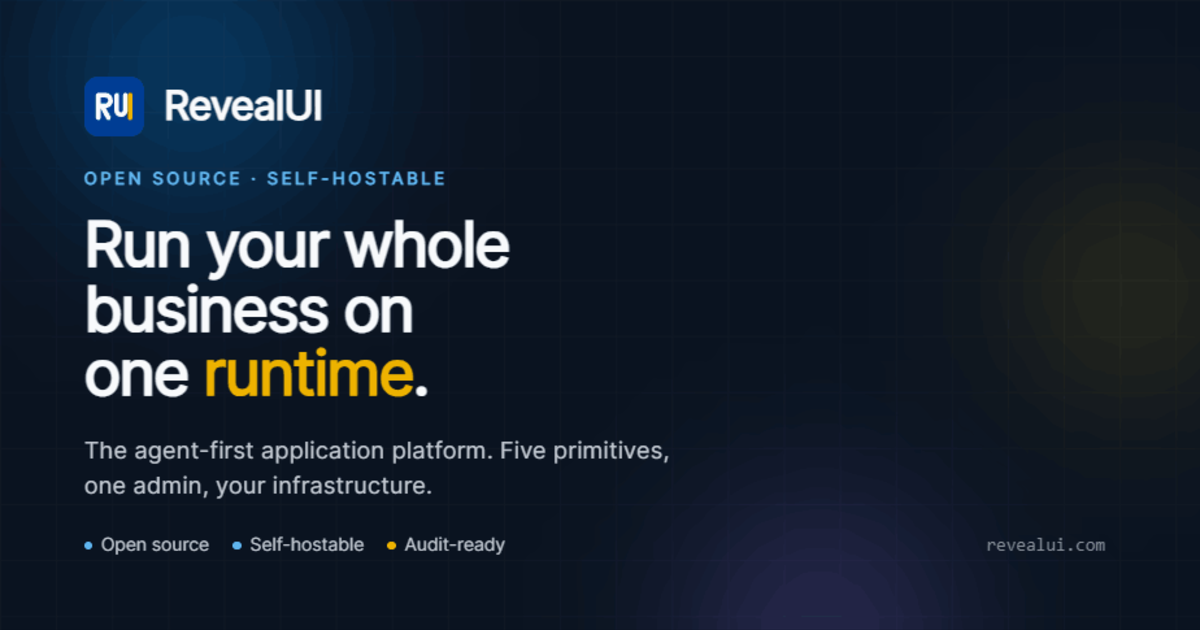
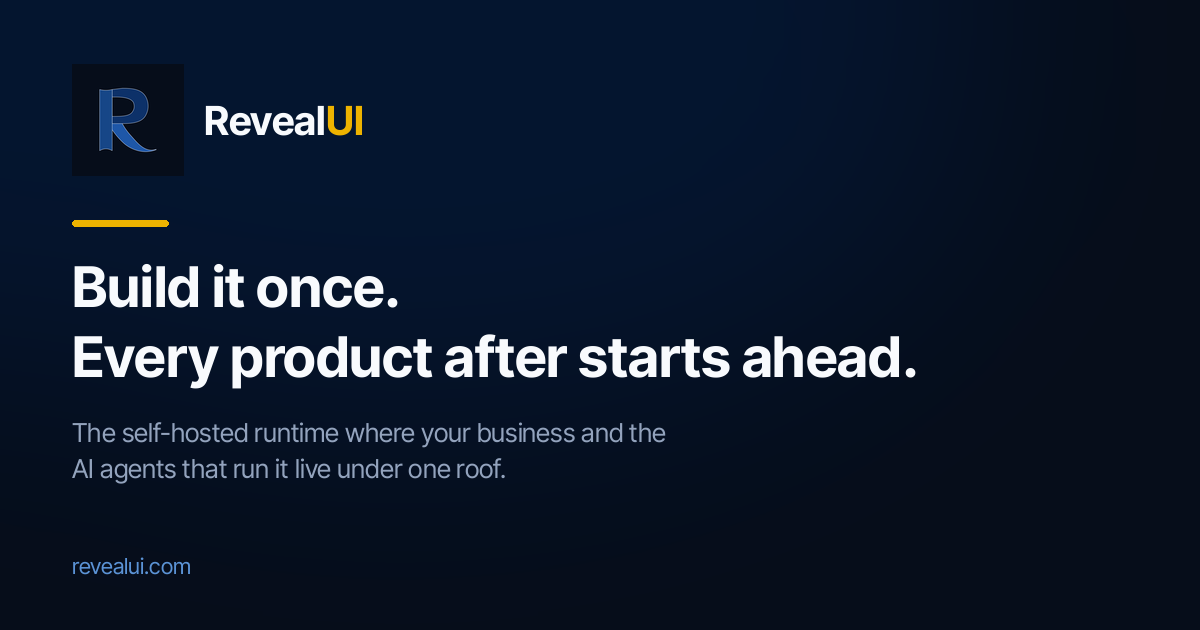
chore(brand): retire RU and RUI lettermarks (#2651)
* chore(brand): retire RU and RUI lettermarks

Replace the marketing OG card's two-letter RU tile with the cobalt
circuit R. Delete the pre-Cobalt rainbow RUI medallion. Stop using
RU as RevealUI brand initials in the avatar showcase.

* chore(docs): use JV initials in avatar showcase

---------

diff --git a/apps/docs/app/showcase/avatar.showcase.tsx b/apps/docs/app/showcase/avatar.showcase.tsx
@@ -9,7 +9,7 @@ const story: ShowcaseStory = {
   category: 'component',
 
   controls: {
-    initials: { type: 'text', default: 'RU' },
+    initials: { type: 'text', default: 'JV' },
     square: { type: 'boolean', default: false },
     alt: { type: 'text', default: 'User avatar' },
   },
@@ -29,7 +29,7 @@ const story: ShowcaseStory = {
       render: () => (
         <div className="flex items-end gap-4">
           {['size-6', 'size-8', 'size-10', 'size-12', 'size-16'].map((size) => (
-            <Avatar key={size} initials="RU" alt="RevealUI" className={size} />
+            <Avatar key={size} initials="JV" alt="Joshua Vaughn" className={size} />
           ))}
         </div>
       ),
@@ -50,9 +50,9 @@ const story: ShowcaseStory = {
       name: 'Square Variant',
       render: () => (
         <div className="flex items-end gap-4">
-          <Avatar initials="RU" square alt="Square small" className="size-8" />
-          <Avatar initials="RU" square alt="Square medium" className="size-12" />
-          <Avatar initials="RU" square alt="Square large" className="size-16" />
+          <Avatar initials="JV" square alt="Square small" className="size-8" />
+          <Avatar initials="JV" square alt="Square medium" className="size-12" />
+          <Avatar initials="JV" square alt="Square large" className="size-16" />
         </div>
       ),
     },
